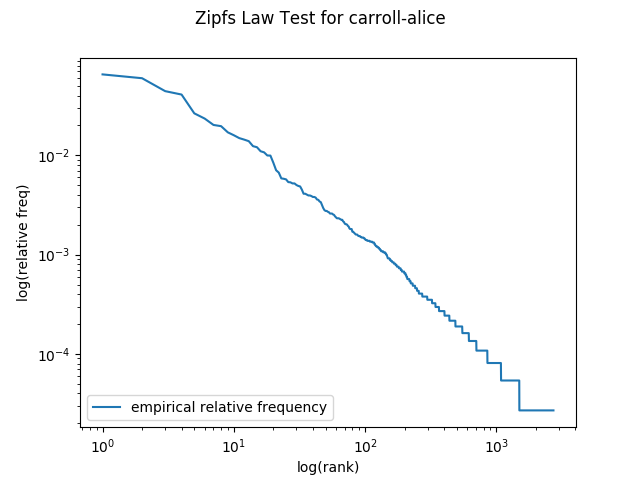
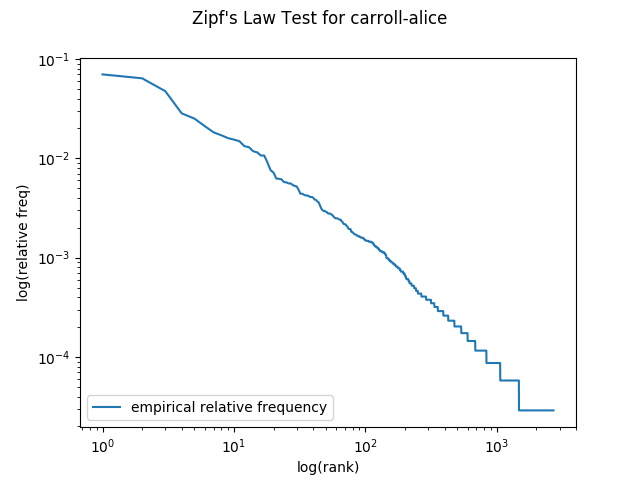
Clarify not to include newlines

diff --git a/lab03.md b/lab03.md
@@ -41,7 +41,7 @@ from spaCy.lang.en import English
 nlp = English(pipeline=[], max_length=5000000)
 ```
 
-Next, write a function called `read_one(file_path)` that takes the location of a file as its input, and that returns a `Counter` object representing all of the *lowercased* tokens in the corresponding text file. 
+Next, write a function called `read_one(file_path)` that takes the location of a file as its input, and that returns a `Counter` object representing all of the *lowercased* tokens in the corresponding text file. This *should* include tokens for punctuation, but *not* for newline characters (`"\n"`).
 
 *Hint*: You can get the **Token** objects in a spaCy document by iterating over a spaCy Doc object, e.g., by using Python's `for...in` loop syntax. You can get the text of a Token (as a string) using the `.text` attribute of the `Token` object. 
 
@@ -103,6 +103,8 @@ Before moving on, confirm that calling `plot_one('carroll-alice.txt')` generates
 
 ![Plot of rank vs frequency for carroll-alice.txt](images/01_zipf.png)
 
+If your graph looks *slightly* different, make sure your `read_one` function
+isn't including newlines (`"\n"`) as tokens.
 
 
 ### Part 1(c)
